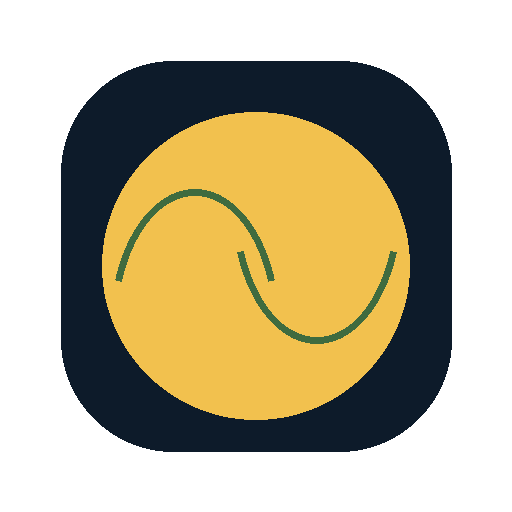
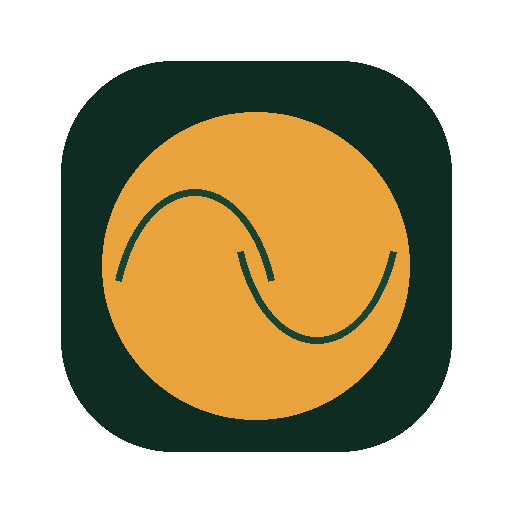
Add files via upload

Changed region(s): [[0.1875, 0.2188, 0.8125, 0.8438]]

diff --git a/index.html b/index.html
@@ -8,7 +8,7 @@
 
 <!-- PWA: manifest + theme + icons -->
 <link rel="manifest" href="manifest.json">
-<meta name="theme-color" content="#0D1B2A">
+<meta name="theme-color" content="#1B4332">
 <link rel="icon" href="icon-192.png">
 <link rel="apple-touch-icon" href="apple-touch-icon.png">
 <meta name="mobile-web-app-capable" content="yes">
@@ -16,18 +16,18 @@
 <meta name="apple-mobile-web-app-status-bar-style" content="black-translucent">
 <meta name="apple-mobile-web-app-title" content="MatchSim">
 <style>
-  @import url('https://fonts.googleapis.com/css2?family=Teko:wght@500;600;700&family=Inter:wght@400;500;600;700&family=JetBrains+Mono:wght@400;600&display=swap');
+  @import url('https://fonts.googleapis.com/css2?family=Oswald:wght@500;600;700&family=Inter:wght@400;500;600;700&family=JetBrains+Mono:wght@400;600&display=swap');
 
   :root {
-    --night: #0D1B2A;
-    --panel: #14263B;
-    --pitch: #3F6B3F;
-    --pitch-light: #547A54;
-    --amber: #F2C14E;
-    --cream: #EDE7DC;
-    --cream-dim: #A7B0BC;
+    --night: #0F2C22;
+    --panel: #163A2C;
+    --pitch: #1B4332;
+    --pitch-light: #2D6A4F;
+    --amber: #E8A33D;
+    --cream: #F5EFDC;
+    --cream-dim: rgba(245,239,220,0.6);
     --wicket: #C1443C;
-    --line: rgba(237,231,220,0.12);
+    --line: rgba(245,239,220,0.12);
   }
   * { box-sizing: border-box; }
   body {
@@ -37,7 +37,7 @@
     font-family: 'Inter', sans-serif;
     line-height: 1.5;
   }
-  .score-face { font-family: 'Teko', sans-serif; font-weight: 600; letter-spacing: 0.01em; }
+  .score-face { font-family: 'Oswald', sans-serif; font-weight: 600; letter-spacing: 0.01em; }
   .mono { font-family: 'JetBrains Mono', monospace; }
 
   header {
@@ -47,7 +47,7 @@
     box-shadow: 0 2px 12px rgba(0,0,0,0.25);
   }
   header h1 {
-    font-family: 'Teko', sans-serif;
+    font-family: 'Oswald', sans-serif;
     font-weight: 700;
     font-size: 40px;
     letter-spacing: 0.02em;
@@ -68,7 +68,7 @@
     box-shadow: 0 2px 8px rgba(0,0,0,0.18);
   }
   .panel h2 {
-    font-family: 'Teko', sans-serif;
+    font-family: 'Oswald', sans-serif;
     font-weight: 600;
     font-size: 22px;
     letter-spacing: 0.02em;
@@ -117,7 +117,7 @@
   @media (min-width: 860px) { .teams-row { grid-template-columns: 1fr 1fr; } }
 
   .team-name-input {
-    font-family: 'Teko', sans-serif;
+    font-family: 'Oswald', sans-serif;
     font-size: 22px;
     font-weight: 600;
     background: transparent;
@@ -142,7 +142,7 @@
   .tab-nav { display: flex; gap: 4px; margin-bottom: 20px; border-bottom: 1px solid var(--line); overflow-x: auto; -webkit-overflow-scrolling: touch; }
   .tab-btn {
     background: transparent; border: none; color: var(--cream-dim);
-    font-family: 'Teko', sans-serif; font-size: 20px; font-weight: 600; letter-spacing: 0.02em;
+    font-family: 'Oswald', sans-serif; font-size: 20px; font-weight: 600; letter-spacing: 0.02em;
     padding: 10px 18px 14px; cursor: pointer; border-bottom: 3px solid transparent; margin-bottom: -1px;
     white-space: nowrap; transition: color 0.15s, border-color 0.15s;
     min-height: 44px;
@@ -167,7 +167,7 @@
   .tournament-team-checks { display: flex; flex-direction: column; gap: 6px; }
   .tournament-team-checks label { display: flex; align-items: center; gap: 8px; font-size: 13px; }
   .points-table { width: 100%; border-collapse: collapse; font-size: 12px; margin-bottom: 20px; }
-  .points-table th { text-align: left; color: var(--amber); font-family: 'Teko', sans-serif; font-size: 16px; font-weight: 600; padding: 6px 10px; border-bottom: 1px solid var(--line); }
+  .points-table th { text-align: left; color: var(--amber); font-family: 'Oswald', sans-serif; font-size: 16px; font-weight: 600; padding: 6px 10px; border-bottom: 1px solid var(--line); }
   .points-table td { padding: 6px 10px; border-bottom: 1px solid rgba(255,255,255,0.05); }
   .match-result-line { font-size: 12px; color: var(--cream-dim); padding: 6px 0; border-bottom: 1px solid rgba(255,255,255,0.05); }
   .match-result-line b { color: var(--cream); }
@@ -212,7 +212,7 @@
     padding: 24px; width: 100%; max-width: 420px; max-height: 90vh; overflow-y: auto;
     box-shadow: 0 12px 40px rgba(0,0,0,0.45);
   }
-  .modal-box h2 { font-family: 'Teko', sans-serif; font-size: 24px; color: var(--amber); margin: 0 0 16px; }
+  .modal-box h2 { font-family: 'Oswald', sans-serif; font-size: 24px; color: var(--amber); margin: 0 0 16px; }
   #playerModalForm { display: flex; flex-direction: column; gap: 12px; }
   #playerModalForm label { font-size: 12px; color: var(--cream-dim); display: flex; flex-direction: column; gap: 4px; }
   #playerModalForm input, #playerModalForm select {
@@ -250,10 +250,10 @@
   }
   .scoreboard .side { background: var(--panel); padding: 18px 20px; }
   .scoreboard .side .team-label { color: var(--cream-dim); font-size: 13px; margin-bottom: 2px; }
-  .scoreboard .side .score { font-family: 'Teko', sans-serif; font-size: 44px; font-weight: 600; line-height: 1; color: var(--amber); }
+  .scoreboard .side .score { font-family: 'Oswald', sans-serif; font-size: 44px; font-weight: 600; line-height: 1; color: var(--amber); }
   .result-line {
     text-align: center;
-    font-family: 'Teko', sans-serif;
+    font-family: 'Oswald', sans-serif;
     font-size: 22px;
     letter-spacing: 0.02em;
     color: var(--cream);
@@ -275,14 +275,14 @@
   .sc-tab-nav { display: flex; gap: 4px; margin-bottom: 12px; overflow-x: auto; -webkit-overflow-scrolling: touch; }
   .sc-tab-btn {
     background: rgba(255,255,255,0.05); border: 1px solid var(--line); color: var(--cream-dim);
-    font-family: 'Teko', sans-serif; font-size: 15px; font-weight: 600; letter-spacing: 0.02em;
+    font-family: 'Oswald', sans-serif; font-size: 15px; font-weight: 600; letter-spacing: 0.02em;
     padding: 8px 14px; cursor: pointer; border-radius: 4px 4px 0 0; white-space: nowrap; min-height: 40px;
   }
   .sc-tab-btn.active { color: var(--night); background: var(--amber); }
   .sc-tab-panel { display: none; }
   .sc-tab-panel.active { display: block; }
   .sc-banner {
-    color: #fff; font-family: 'Teko', sans-serif; font-size: 20px; font-weight: 600;
+    color: #fff; font-family: 'Oswald', sans-serif; font-size: 20px; font-weight: 600;
     letter-spacing: 0.03em; padding: 8px 14px; margin-top: 14px; border-radius: 4px 4px 0 0;
     text-shadow: 0 1px 2px rgba(0,0,0,0.4);
   }
@@ -292,7 +292,7 @@
     padding: 8px 14px; text-shadow: 0 1px 2px rgba(0,0,0,0.4);
   }
   .innings-block h3 {
-    font-family: 'Teko', sans-serif;
+    font-family: 'Oswald', sans-serif;
     font-size: 20px;
     font-weight: 600;
     color: var(--pitch-light);
@@ -316,7 +316,7 @@
   .toss-line { text-align: center; font-size: 13px; color: var(--cream-dim); margin-bottom: 16px; font-style: italic; }
   .live-scoreboard { background: var(--panel); border: 1px solid var(--line); border-radius: 6px 6px 0 0; padding: 16px 20px; text-align: center; }
   .live-label { font-size: 13px; color: var(--cream-dim); margin-bottom: 4px; }
-  .live-score { font-family: 'Teko', sans-serif; font-size: 40px; font-weight: 600; color: var(--amber); line-height: 1; }
+  .live-score { font-family: 'Oswald', sans-serif; font-size: 40px; font-weight: 600; color: var(--amber); line-height: 1; }
   .commentary-feed {
     background: rgba(0,0,0,0.2); border: 1px solid var(--line); border-top: none;
     border-radius: 0 0 6px 6px; padding: 12px 16px; min-height: 160px;
@@ -1513,11 +1513,11 @@ document.getElementById("runTournamentBtn").addEventListener("click", () => {
   const statsHtml = renderStatsTables(computeAggregateStats(tournamentMatches));
 
   document.getElementById("tournamentResults").innerHTML = `
-    <h2 style="font-family:'Teko',sans-serif;color:var(--amber);font-size:22px;">Points Table</h2>
+    <h2 style="font-family:'Oswald',sans-serif;color:var(--amber);font-size:22px;">Points Table</h2>
     ${tableHtml}
-    <h2 style="font-family:'Teko',sans-serif;color:var(--amber);font-size:22px;">Tournament Stats</h2>
+    <h2 style="font-family:'Oswald',sans-serif;color:var(--amber);font-size:22px;">Tournament Stats</h2>
     ${statsHtml}
-    <h2 style="font-family:'Teko',sans-serif;color:var(--amber);font-size:22px;">Match Results</h2>
+    <h2 style="font-family:'Oswald',sans-serif;color:var(--amber);font-size:22px;">Match Results</h2>
     ${matchLines.join("")}
   `;
 });
@@ -1895,7 +1895,7 @@ function renderGroupCard(season, group, pitch, totalOvers) {
     </div>`).join("");
   return `
     <div class="team-card">
-      <div class="team-card-header"><span style="font-size:20px; font-family:'Teko',sans-serif; color:var(--pitch-light);">${group.name}</span></div>
+      <div class="team-card-header"><span style="font-size:20px; font-family:'Oswald',sans-serif; color:var(--pitch-light);">${group.name}</span></div>
       <div class="add-to-team-row">
         <button class="btn-ghost add-fixtures-btn" data-group-id="${group.id}">Add missing fixtures</button>
         <button class="btn-ghost sim-all-btn" data-group-id="${group.id}">Simulate all pending</button>
@@ -1914,7 +1914,7 @@ function renderKnockoutRoundCard(season, round, pitch, totalOvers) {
   const teamOptions = season.teamIds.map(id => `<option value="${id}">${getTeam(id)?.name}</option>`).join("");
   return `
     <div class="team-card">
-      <div class="team-card-header"><span style="font-size:20px; font-family:'Teko',sans-serif; color:var(--pitch-light);">${round.name}</span></div>
+      <div class="team-card-header"><span style="font-size:20px; font-family:'Oswald',sans-serif; color:var(--pitch-light);">${round.name}</span></div>
       ${matchLines || '<p class="hint-text">No matches yet.</p>'}
       <div class="add-to-team-row">
         <select data-role="ko-team1" data-round-id="${round.id}">${teamOptions}</select>
@@ -2224,7 +2224,7 @@ function downloadScorecardImage(container, filename) {
     hiddenEls.push([el, el.style.display]);
     el.style.display = "none";
   });
-  html2canvas(container, { backgroundColor: "#0D1B2A", scale: 2 }).then(canvas => {
+  html2canvas(container, { backgroundColor: "#0F2C22", scale: 2 }).then(canvas => {
     hiddenEls.forEach(([el, prevDisplay]) => { el.style.display = prevDisplay; });
     const link = document.createElement("a");
     link.download = `${filename}.png`;
